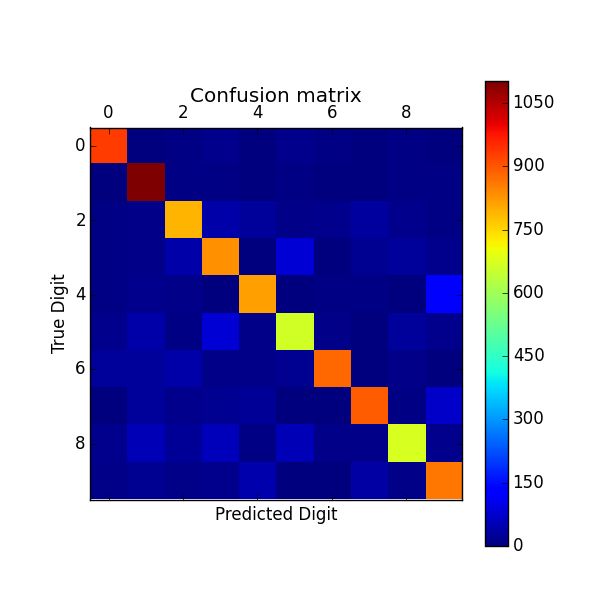
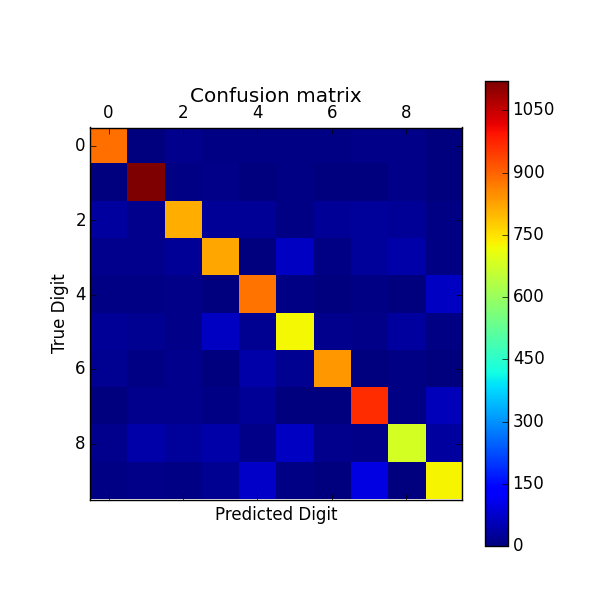
Last commit tonight :)

diff --git a/HW1/problem1.py b/HW1/problem1.py
@@ -4,6 +4,23 @@
 # and 10,000. Make sure you set aside 10,000 other training points as a validation set.
 # You should expect accuracies between 70% and 90% at this stage
 
+def computeCV_Score(clf, data, labels, folds):
+    i = 0
+    j = 0
+    accuracy = 0.0
+    scores = []
+    for i in range(folds):
+        clf.fit(data[i], labels[i])
+        for j in range(folds):
+            if(j!=i):
+                predicted_Digits = clf.predict(data[j])
+                for elem1, elem2 in zip(predicted_Digits, labels[j]):
+                    if elem1 == elem2:
+                        accuracy+=1                
+        scores.append(100.0*accuracy/((folds-1)*len(predicted_Digits)))
+    return scores
+
+
 ############# IMPORTS ############# 
 
 import scipy as sp
@@ -14,8 +31,9 @@ import random
 from skimage.io._plugins.qt_plugin import ImageLabel
 from sklearn.metrics import confusion_matrix
 import pylab as plt
+from sklearn import cross_validation
 
-DEBUG = False
+DEBUG = True
 ############# FILE STUFF ############# 
 testFileMNIST = "./digit-dataset/test.mat"
 trainFileMNIST = "./digit-dataset/train.mat"
@@ -75,40 +93,69 @@ for elem in imageComplete:
 # NOTE: Set aside 50,000-60,000 to validate
 
 ############# TRAIN SVM ############# 
-C = [1] #[0.001, 0.01, 0.1, 1, 10, 100, 1000]                    # array of values for parameter C
-training_Size = [100, 200, 500, 1000, 2000, 5000, 10000]
-for C_Value in C:
-    print 50*'-'
-    print "C Value:", C_Value
-    print 50*'-'
-    for elem in training_Size:
-        if DEBUG:
-            print 50*'-'
-            print "Shuffled Data and Label shape: ", len(shuffledData), len(shuffledLabels)
-        
-        clf = svm.SVC(kernel='linear', C=C_Value)
-        clf.fit(shuffledData[:elem], np.array(shuffledLabels[:elem]))
-        
-        predicted_Digits = clf.predict(shuffledData[50000:])
-        actual_Digits = shuffledLabels[50000:]
-        accuracy = 0.0
-        for elem1, elem2 in zip(predicted_Digits, actual_Digits):
-            if elem1 == elem2:
-                accuracy+=1
-        
-        print "Training Size:", elem 
-        print "Accuracy: ", 100.0*accuracy/len(predicted_Digits), "%"
-        cm = confusion_matrix(actual_Digits, predicted_Digits)
-        
-        # Show confusion matrix in a separate window
-        plt.matshow(cm)
-        plt.title('Confusion matrix')
-        plt.colorbar()
-        plt.ylabel('True Digit')
-        plt.xlabel('Predicted Digit')
-        plt.savefig("./Results/" + str(elem)+"_CM.png")
+C = [0.000001, 0.001, 1, 1000, 1000000]                    # array of values for parameter C
+training_Size = [100, 200, 500, 1000, 2000]#, 5000, 10000]
+for elem in training_Size:
+    if DEBUG:
+        print 50*'-'
+        print "Shuffled Data and Label shape: ", len(shuffledData), len(shuffledLabels)
+    
+    clf = svm.SVC(kernel='linear', C=C[3])
+    clf.fit(shuffledData[:elem], np.array(shuffledLabels[:elem]))
+    
+    predicted_Digits = clf.predict(shuffledData[50000:])
+    actual_Digits = shuffledLabels[50000:]
+    accuracy = 0.0
+    for elem1, elem2 in zip(predicted_Digits, actual_Digits):
+        if elem1 == elem2:
+            accuracy+=1
+    
+    print "Training Size:", elem 
+    print "Accuracy: ", 100.0*accuracy/len(predicted_Digits), "%"
+    cm = confusion_matrix(actual_Digits, predicted_Digits)
 ############# PLOT RESULTS ############# 
+    
+    # Show confusion matrix in a separate window
+    plt.matshow(cm)
+    plt.title('Confusion matrix')
+    plt.colorbar()
+    plt.ylabel('True Digit')
+    plt.xlabel('Predicted Digit')
+    plt.savefig("./Results/" + str(elem)+"_CM.png")
+####################################### 
+
+#########################################################
+# CROSS VALIDATION 
+#########################################################
+
+############# USING BUILT IN FUNCTION ############# 
+# for C_Value in C:
+#     clf = svm.SVC(kernel='linear', C=C_Value)
+#     scores = cross_validation.cross_val_score(clf, shuffledData[:10000], shuffledLabels[:10000], cv=10)
+#     print "C Value:", C_Value, "Accuracy: %0.2f (+/- %0.2f)" % (scores.mean(), scores.std() / 2)
+
+############# DATA PARTIONING ############# 
+crossValidation_Data= []
+crossValidation_Labels = []
+k = 10 
+lengthData = 10000
+stepLength = lengthData/k
+for index in range(0,k):
+    crossValidation_Data.append(shuffledData[index:lengthData:stepLength])
+    crossValidation_Labels.append(shuffledLabels[index:lengthData:stepLength])
+
+if DEBUG:
+    print "Lengths of CV Data and Labels: ", len(crossValidation_Data), len(crossValidation_Labels)
+
+for C_Value in C:
+    clf = svm.SVC(kernel='linear', C=C_Value)
+    scores = computeCV_Score(clf, shuffledData[:10000], shuffledLabels[:10000], 10)
+    print scores
+    print "C Value:", C_Value, "Accuracy: %0.2f (+/- %0.2f)" % (scores.mean(), scores.std() / 2)
+
+############# CROSS-VALIDATION ############# 
 
 
 print 50*'-'
 print "End of File"
+print 50*'-'
